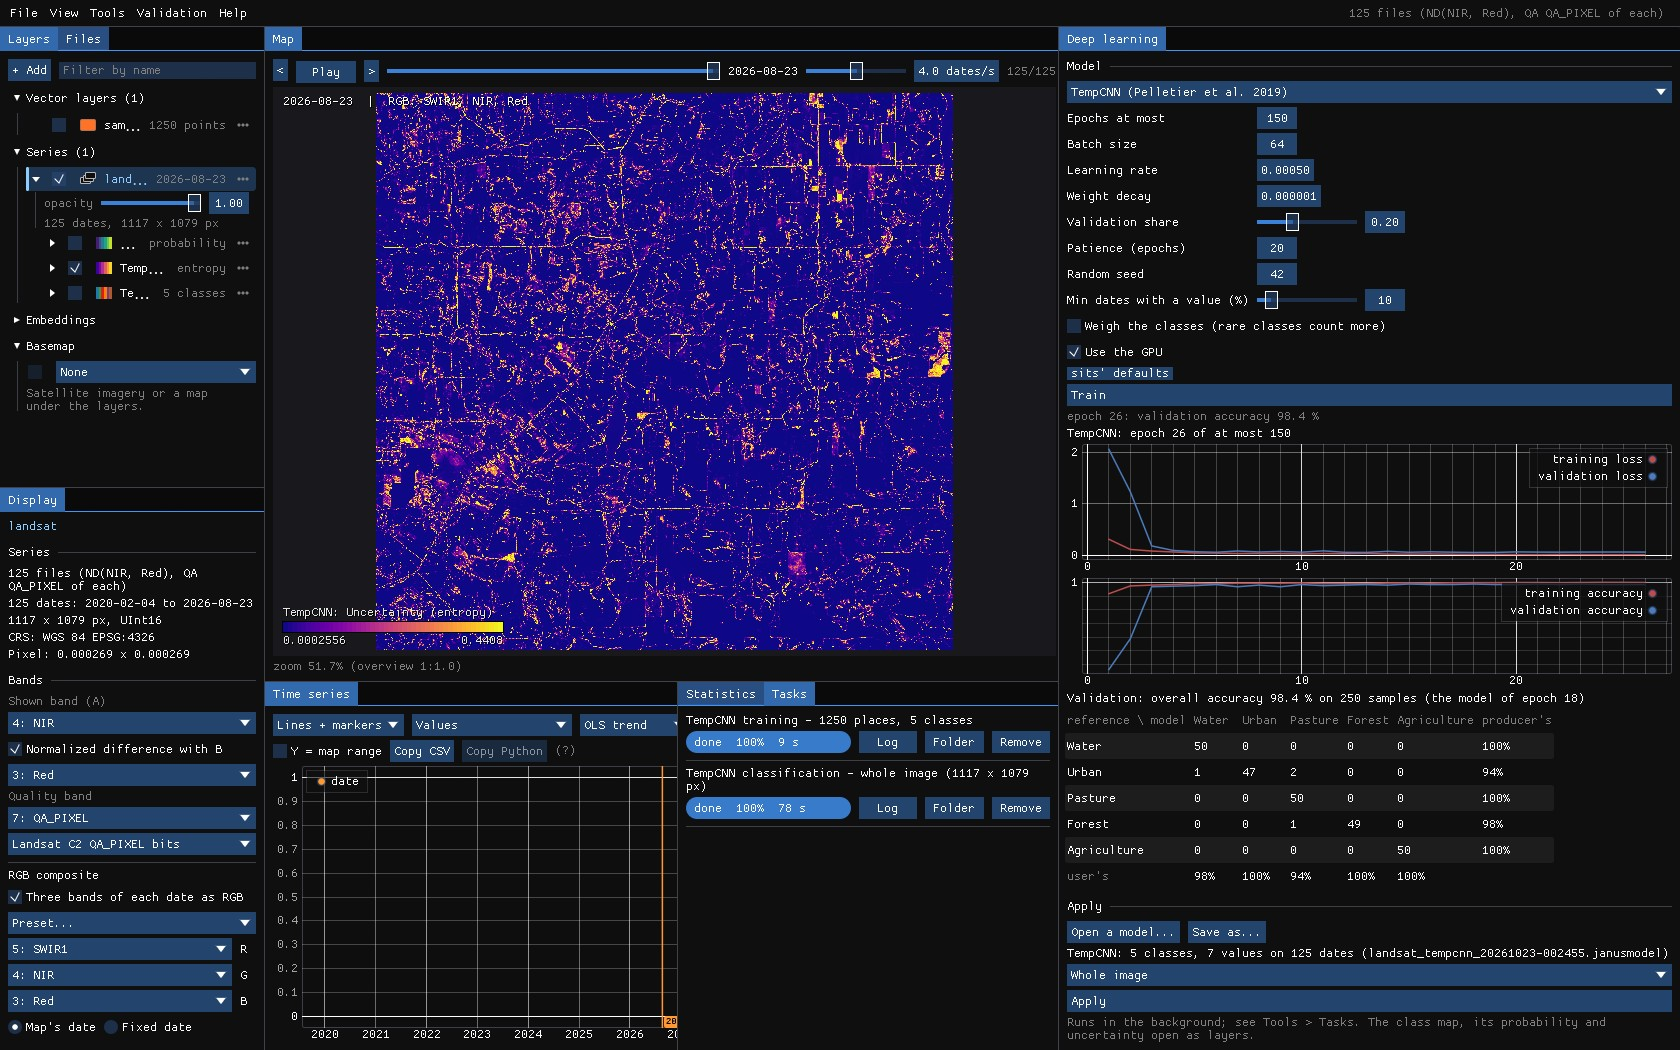
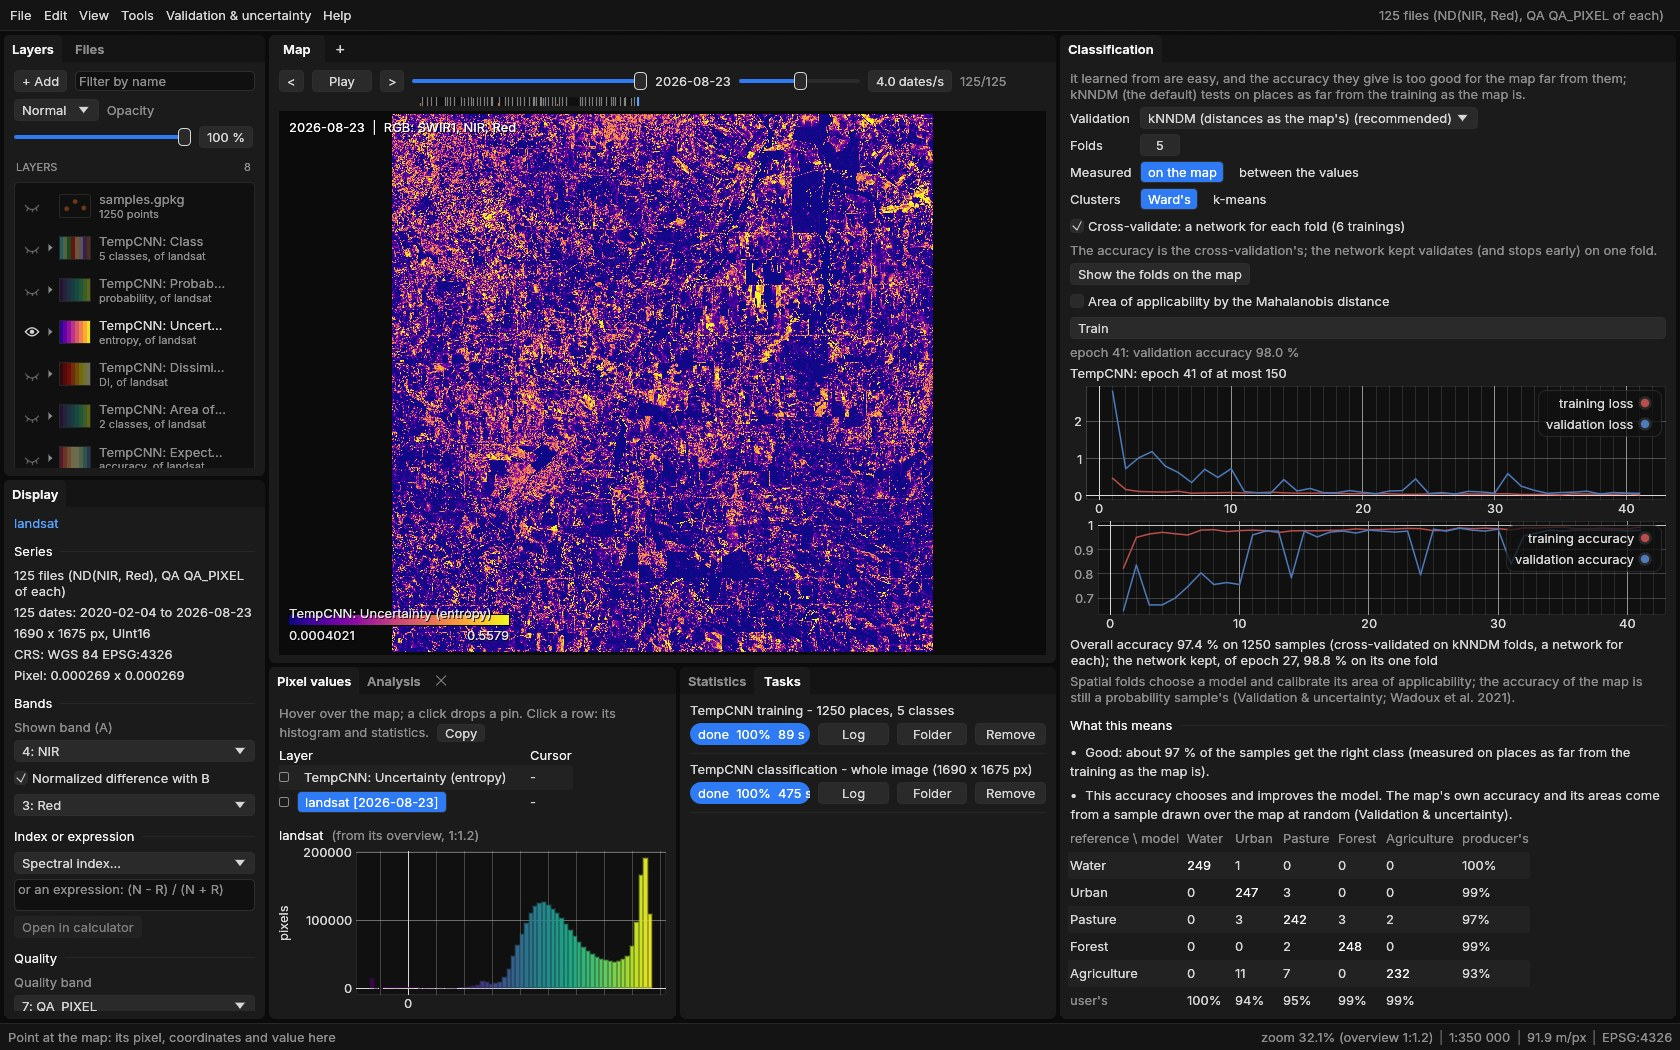
1.15.2: the deep learning guide's screenshots taken again with the networks written from their authors (TempCNN: Adam 1e-3, batches of 32; L-TAE: 100 epochs, the best kept), on the whole Landsat stack of Rondonia (1690 x 1675, 125 dates) with MapBiomas 2022's samples; the U-TAE paragraph with this r

diff --git a/site/deep-learning.html b/site/deep-learning.html
@@ -86,7 +86,7 @@
 
     <section id="data">
       <h2><span class="n">02</span>The example</h2>
-      <p>The Landsat 8/9 series of the <a href="ccdc.html">CCDC guide</a>: 125 dates, 2020 to 2026, 30 m, 1117 × 1079 pixels of Rondônia. The samples come from <strong>MapBiomas</strong> 2022 (collection 8): 250 points in each of five classes (water, urban, pasture, forest, agriculture), each at a pixel whose 5 × 5 neighbourhood is all of its class, in a GeoPackage with a <code>class</code> column.</p>
+      <p>The Landsat 8/9 series of the <a href="ccdc.html">CCDC guide</a>: 125 dates, 2020 to 2026, 30 m, 1690 × 1675 pixels of Rondônia. The samples come from <strong>MapBiomas</strong> 2022 (collection 8): 250 points in each of five classes (water, urban, pasture, forest, agriculture), each at a pixel whose 5 × 5 neighbourhood is all of its class, in a GeoPackage with a <code>class</code> column.</p>
       <figure class="fig">
         <a href="assets/img/ml/01-samples.jpg"><img src="assets/img/ml/01-samples.jpg" alt="The Landsat image of Rondônia in SWIR1, NIR and red with 1250 sample points coloured by class: water along the rivers, urban in a town, pasture and forest everywhere, agriculture in the northeast." width="1680" height="1050" loading="lazy"></a>
         <figcaption><b>1250 samples</b> over the series, in their classes' colours: water (light blue), urban (blue), pasture (light green), forest (green), agriculture (pink).</figcaption>
@@ -185,10 +185,10 @@
         <figcaption><b>The areas</b> and U-TAE's settings: patches of 32 px, the labels inside the ROI.</figcaption>
       </figure>
       <figure class="fig narrow">
-        <a href="assets/img/ml/10-utae.png"><img src="assets/img/ml/10-utae.png" alt="U-TAE in the window: 20 epochs at most, batches of 8 patches; the losses still falling at epoch 20; validation: 76.3% of the labelled pixels of 115 patches." loading="lazy"></a>
-        <figcaption><b>U-TAE after 20 epochs</b>: the losses still falling.</figcaption>
+        <a href="assets/img/ml/10-utae.png"><img src="assets/img/ml/10-utae.png" alt="U-TAE in the window: 20 epochs at most, batches of 8 patches; the losses still falling slowly at epoch 20; validation: 95.7% of the labelled pixels of 115 patches, water's user's accuracy 36%." loading="lazy"></a>
+        <figcaption><b>U-TAE after 20 epochs</b>: the losses still falling, slowly.</figcaption>
       </figure>
-      <p>Its 576 patches (461 to train, 115 to validate) took 135 seconds an epoch, 45 minutes in all, and after 20 epochs U-TAE is right on <strong>76.3% of the labelled pixels</strong>: about what calling everything pasture would give. The curves tell why: the losses are still falling at the last epoch. Its authors train it for 100 epochs; the window's default is 80, with a patience of 10. Stopped this early, a U-Net's decoder still draws a fine pattern of one class every other pixel (here, water over pasture), the mark of transposed convolutions that have not learnt yet; it goes as the training goes on.</p>
+      <p>Its 576 patches (461 to train, 115 to validate) took about 50 minutes for 20 epochs, and U-TAE is right on <strong>95.7% of the labelled pixels</strong> of the validation patches, against about 75% for calling everything pasture. The confusion matrix shows where it is not done yet: water's user's accuracy is 36%, pasture pixels drawn as water, and the losses are still falling at the last epoch. Its authors train it for 100 epochs; the window's default is 80, with a patience of 10. Stopped early, a U-Net's decoder may still draw a fine pattern of one class every other pixel (here, water over pasture), the mark of transposed convolutions that have not learnt yet; it goes as the training goes on. The figures are one run's: they vary with the split and the initial weights.</p>
       <p>Where U-TAE shines is a series of few dates and many labelled fields, the case it was made for (crops in France, a date a week or two for a season): there, its maps have whole fields with clean edges, where a pixel classifier leaves a speckle.</p>
       <div class="note warn">
         <p class="h">Memory</p>

diff --git a/IDEIAS.md b/IDEIAS.md
@@ -2137,6 +2137,9 @@ arquivos (313 MB, ~7 s na primeira abertura) fica como ideia.
   novo treino. Falta resolver: LandTrendr (sem licença publicada) e as
   licenças de CODED, EWMACD, twdtw e snic.c. Publicado como 1.15.1: a tag
   v1.15.0 falhou na CI (cargo fmt e clippy dos arquivos novos do janus-ml).
+- 1.15.2: as capturas do guia de deep learning refeitas com as redes novas
+  (`--shots ml`, a pilha Landsat de Rondônia 1690 x 1675 e o MapBiomas 2022 em
+  E:\janus-guide); o texto do U-TAE com a rodada nova (95,7%, 50 min).
 
 ### O que falta, comparado ao ENVI (levantamento de 2026-11-05)
 
